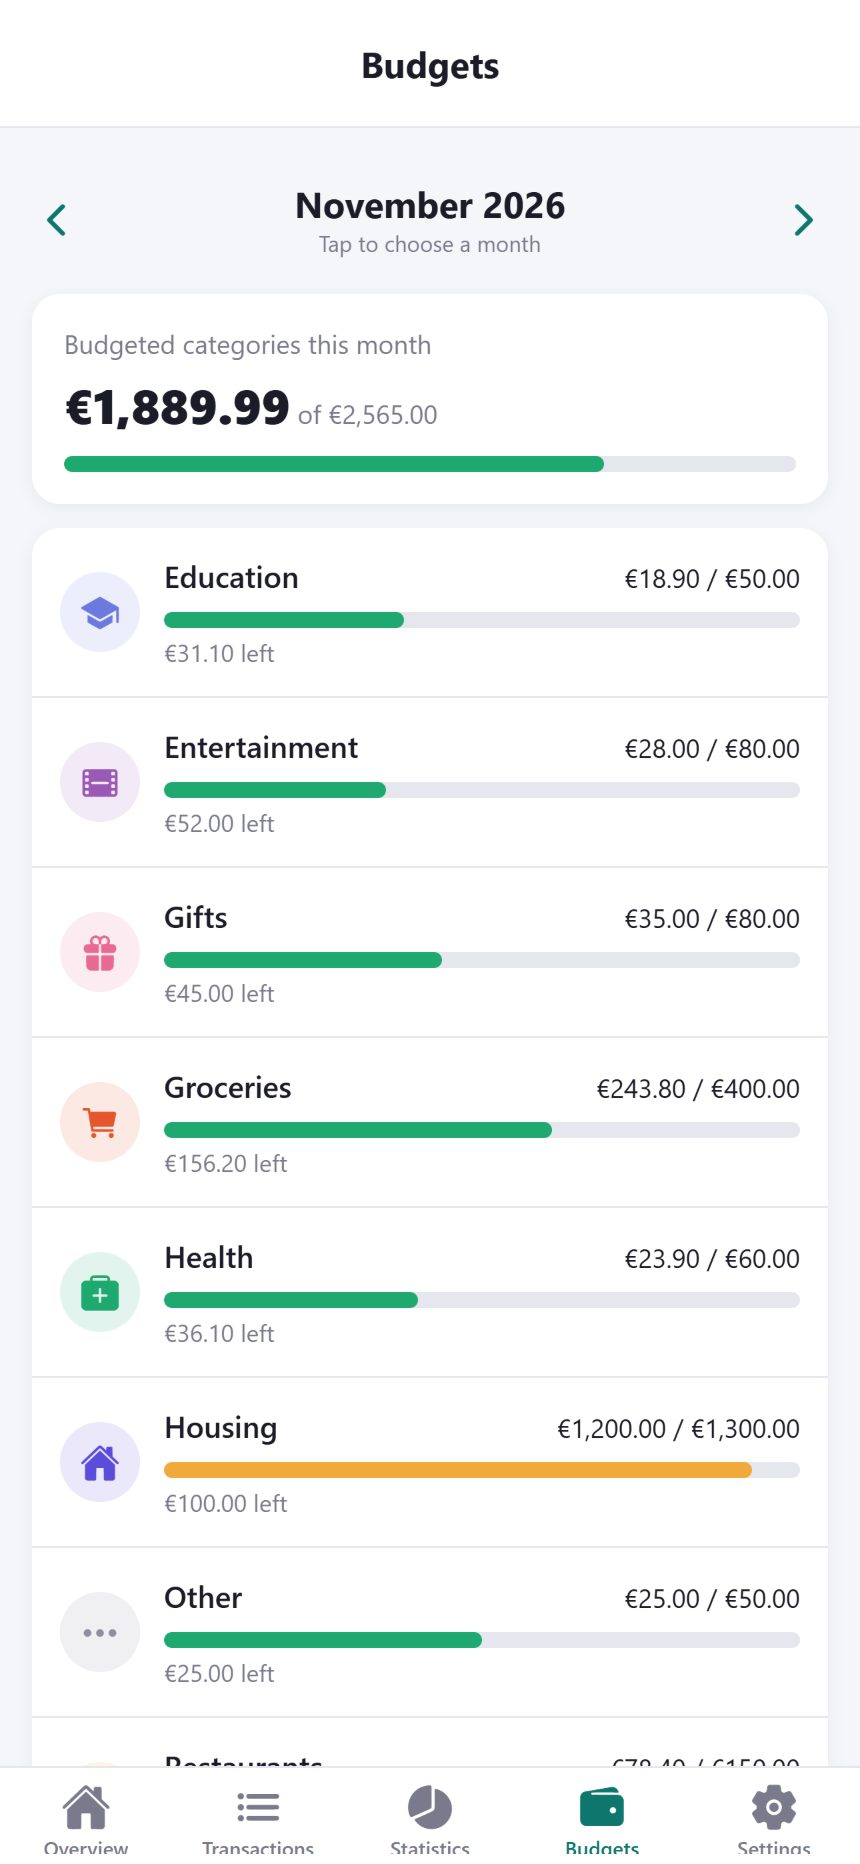
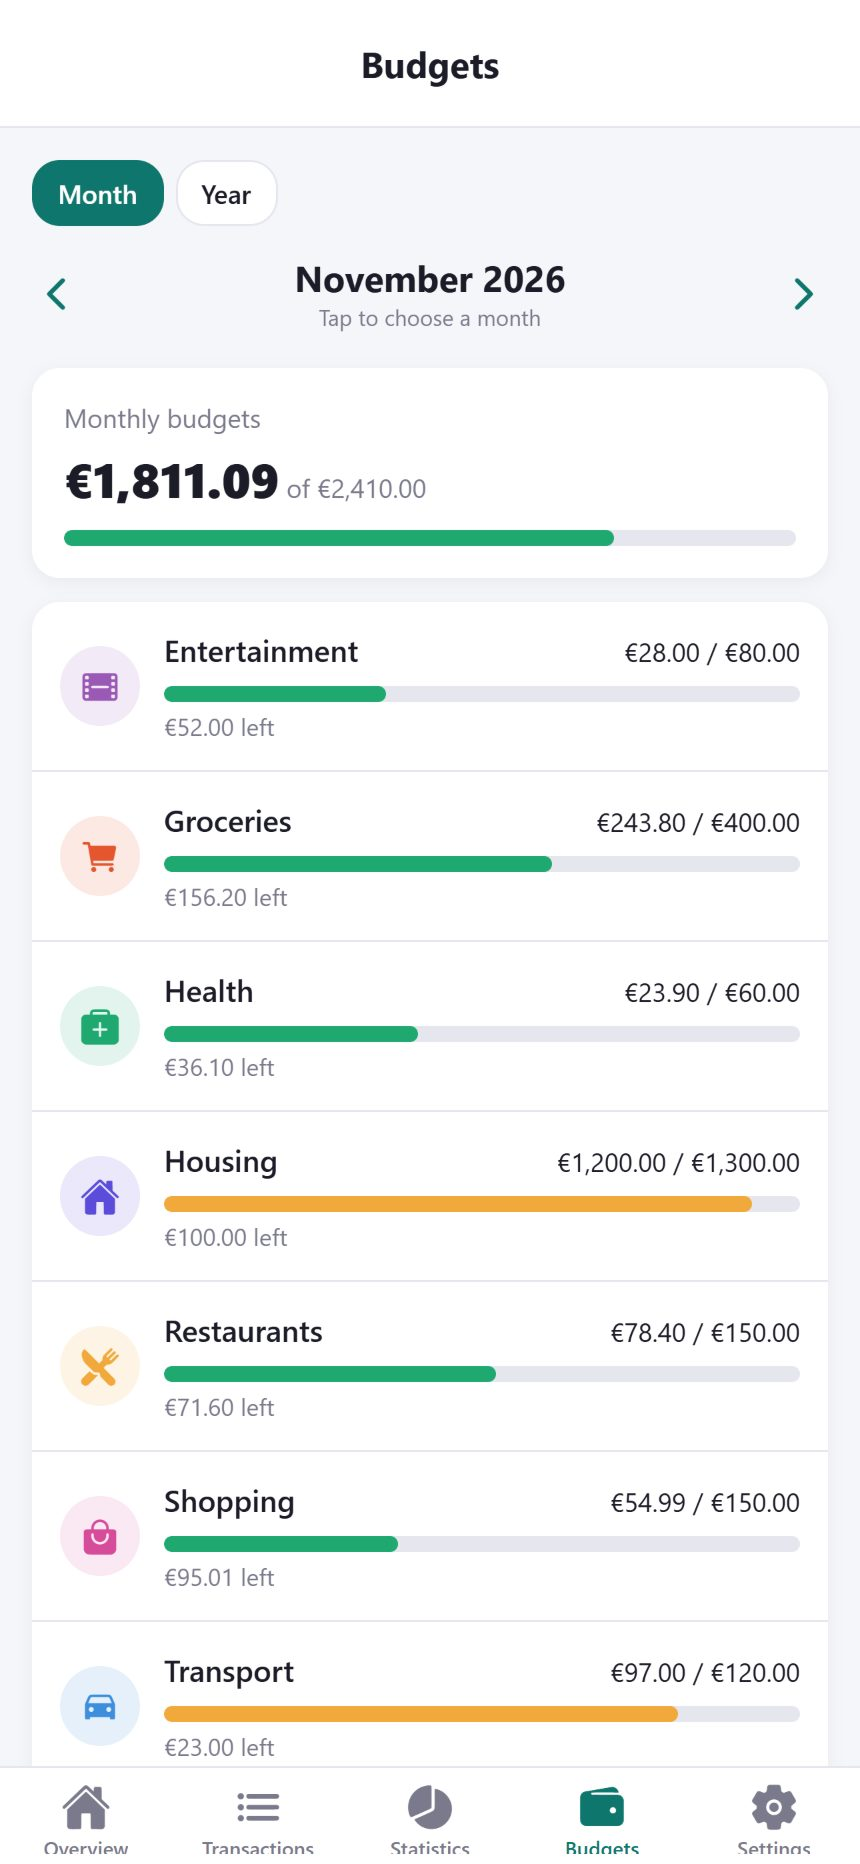
Version 1.1: What's new, yearly budgets and the year view in the plans, Budgets screenshot with Month / Year

diff --git a/changes/index.html b/changes/index.html
@@ -27,11 +27,23 @@
     <div class="wrap">
       <article>
         <h1>What’s new</h1>
-        <p class="meta">Updated 10 November 2026</p>
+        <p class="meta">Updated 11 November 2026</p>
 
         <p>What changed in OurCents, newest first. Version 1.0 is the first public release, on Google Play; the
           entries below it are from the testing phase, and many of those changes came from testers’ feedback.</p>
 
+        <h2>Version 1.1 – 11 November 2026</h2>
+        <ul>
+          <li>Budgets → Year: the whole year month by month, with the months you stayed within budget. Tap a month to
+            open it.</li>
+          <li>Yearly budgets (Pro), for gifts, holidays, insurance and other costs that come once or twice a year: set
+            them in Budgets → Year. Their alerts go by the year (“Mute for 2026”).</li>
+          <li>Earlier months keep the budgets they had; budgets are changed in the current month.</li>
+          <li>Calculator in the amount: turn it on in Settings → General, then tap + − × ÷ under the amount, for
+            example “45+12.50”.</li>
+          <li>Give your partner a name on your phone: Settings → Partner sync.</li>
+          <li>Syncing with a partner? Both phones need version 1.1.</li>
+        </ul>
         <h2>Version 1.0 – 10 November 2026</h2>
         <p>The first public release on Google Play. FamCents is now called OurCents. What’s new since the last test
           version:</p>

diff --git a/es/index.html b/es/index.html
@@ -182,7 +182,7 @@
               <li>Sincronización con tu pareja, “Añadido por” y “Quién gastó qué”</li>
               <li>Entrada por voz</li>
               <li>Resumen mensual, estadísticas y búsqueda</li>
-              <li>3 presupuestos con avisos</li>
+              <li>3 presupuestos mensuales con avisos y el año mes a mes</li>
               <li>Bloqueo de la app, copias de seguridad, exportación a CSV, modo oscuro</li>
             </ul>
           </div>
@@ -192,6 +192,7 @@
             <p style="margin:10px 0 0">Automatiza las facturas recurrentes, gestiona varias carteras, crea presupuestos ilimitados y obtén informes más detallados.</p>
             <ul>
               <li>Presupuestos ilimitados</li>
+              <li>Presupuestos anuales, p. ej. para regalos, vacaciones o seguros</li>
               <li>Movimientos recurrentes: alquiler, salario y suscripciones se añaden solos</li>
               <li>Carteras y cuentas bancarias con saldos y transferencias</li>
               <li>Estadísticas de cualquier periodo: trimestre, año o las fechas que quieras</li>

diff --git a/ro/index.html b/ro/index.html
@@ -181,7 +181,7 @@
               <li>Sincronizare cu partenerul, „Adăugată de” și „Cine a cheltuit ce”</li>
               <li>Introducere vocală</li>
               <li>Rezumat lunar, statistici și căutare</li>
-              <li>3 bugete cu alerte</li>
+              <li>3 bugete lunare cu alerte și anul lună de lună</li>
               <li>Blocarea aplicației, copii de rezervă, export CSV, mod întunecat</li>
             </ul>
           </div>
@@ -191,6 +191,7 @@
             <p style="margin:10px 0 0">Automatizează facturile recurente, gestionează mai multe portofele, setează bugete nelimitate și primește rapoarte mai detaliate.</p>
             <ul>
               <li>Bugete nelimitate</li>
+              <li>Bugete anuale, de ex. pentru cadouri, vacanțe sau asigurări</li>
               <li>Tranzacții recurente: chiria, salariul și abonamentele se adaugă automat</li>
               <li>Portofele și conturi bancare, cu solduri și transferuri</li>
               <li>Statistici pentru orice perioadă: trimestru, an sau o perioadă aleasă de tine</li>

diff --git a/de/index.html b/de/index.html
@@ -182,7 +182,7 @@
               <li>Partner-Abgleich, „Hinzugefügt von“ und „Wer hat was ausgegeben“</li>
               <li>Spracheingabe</li>
               <li>Monatsübersicht, Statistik und Suche</li>
-              <li>3 Budgets mit Hinweisen</li>
+              <li>3 Monatsbudgets mit Hinweisen und das Jahr Monat für Monat</li>
               <li>App-Sperre, Sicherungen, CSV-Export, dunkler Modus</li>
             </ul>
           </div>
@@ -192,6 +192,7 @@
             <p style="margin:10px 0 0">Automatisiere wiederkehrende Rechnungen, verwalte mehrere Geldbörsen, lege unbegrenzt Budgets an und erhalte ausführlichere Berichte.</p>
             <ul>
               <li>Unbegrenzte Budgets</li>
+              <li>Jahresbudgets, z. B. für Geschenke, Urlaub oder Versicherungen</li>
               <li>Wiederkehrende Buchungen: Miete, Gehalt und Abos werden automatisch eingetragen</li>
               <li>Geldbörsen und Bankkonten mit Salden und Umbuchungen</li>
               <li>Statistik für beliebige Zeiträume: Quartal, Jahr oder eigener Zeitraum</li>

diff --git a/index.html b/index.html
@@ -184,7 +184,7 @@
               <li>Partner sync, “Added by” and “Who spent what”</li>
               <li>Voice entry</li>
               <li>Monthly overview, statistics and search</li>
-              <li>3 budgets with alerts</li>
+              <li>3 monthly budgets with alerts, and the year month by month</li>
               <li>App lock, backups, CSV export, dark mode</li>
             </ul>
           </div>
@@ -194,6 +194,7 @@
             <p style="margin:10px 0 0">Automate recurring bills, manage several wallets, set unlimited budgets and get deeper reports.</p>
             <ul>
               <li>Unlimited budgets</li>
+              <li>Yearly budgets, for gifts, holidays or insurance</li>
               <li>Recurring transactions: rent, salary and subscriptions added automatically</li>
               <li>Wallets &amp; bank accounts with balances and transfers</li>
               <li>Statistics for any period: quarter, year or your own dates</li>
